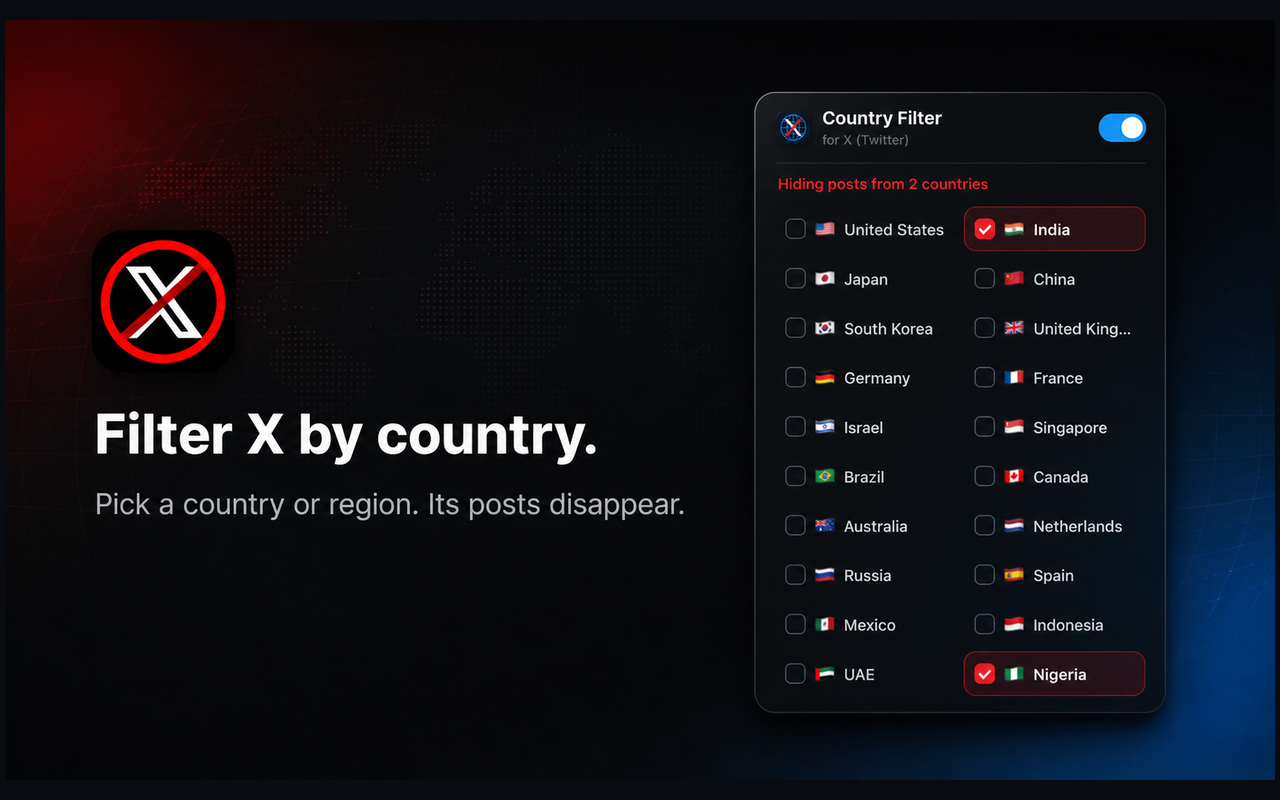
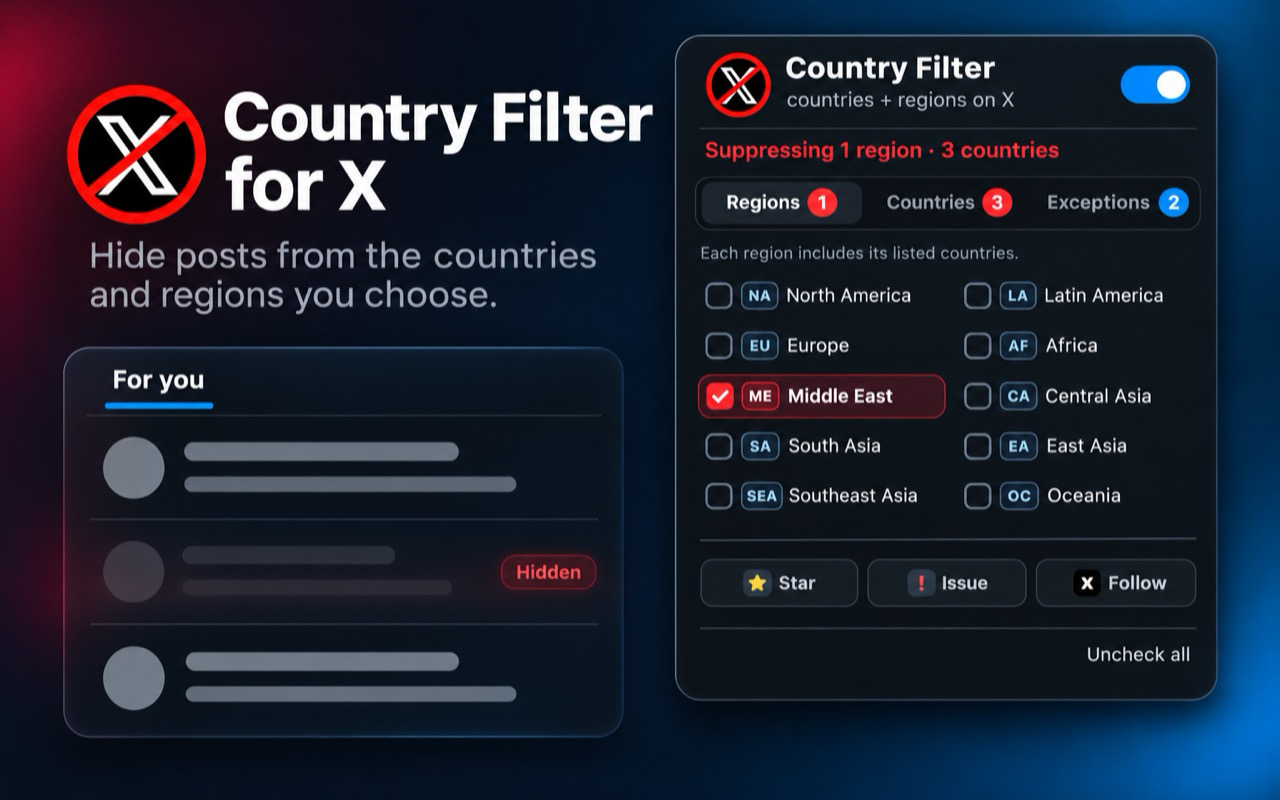
Replace store screenshots with the 1.7 set
Five new 1280x800 screenshots (hero, choices, exceptions, languages,
privacy) for the README and Chrome Web Store listing.

diff --git a/STORE_LISTING.md b/STORE_LISTING.md
@@ -109,9 +109,11 @@ English
 | Asset | File | Notes |
 |---|---|---|
 | Store icon | `store-assets/store-icon-128.png` | 128×128 prohibition-mark logo with transparent outer corners |
-| Screenshot 1 (hero, upload first) | `store-assets/screenshot-1-hero-1280x800.png` | new logo, country/region tagline, and popup preview |
-| Screenshot 2 (features) | `store-assets/screenshot-2-features-1280x800.png` | 249 countries, 10 regions, search, and username exceptions |
-| Screenshot 3 (privacy) | `store-assets/screenshot-3-privacy-1280x800.png` | privacy promises plus X and X Pro support |
+| Screenshot 1 (hero, upload first) | `store-assets/screenshot-1-hero-1280x800.png` | logo, tagline, For You feed with a hidden post, and the Regions popup |
+| Screenshot 2 (choices) | `store-assets/screenshot-2-choices-1280x800.png` | 249 countries, 10 regions, Regions and Countries search popups |
+| Screenshot 3 (exceptions) | `store-assets/screenshot-3-exceptions-1280x800.png` | signed-in account, followed accounts, and username exceptions |
+| Screenshot 4 (languages) | `store-assets/screenshot-4-languages-1280x800.png` | works in every X display language |
+| Screenshot 5 (privacy) | `store-assets/screenshot-5-privacy-1280x800.png` | no developer servers, no tracking, x.com and X Pro |
 | Small promo tile (optional) | — not made yet | 440×280 PNG, improves discovery placement |
 
 ### Global assets
@@ -202,7 +204,7 @@ https://github.com/apoorvdarshan/x-country-filter/blob/master/PRIVACY.md
 - [ ] Zip uploaded (Package tab shows title + summary from manifest)
 - [ ] Description, category, language filled
 - [ ] Store icon uploaded (128×128)
-- [ ] All three 1280×800 screenshots uploaded, hero first
+- [ ] All five 1280×800 screenshots uploaded, hero first
 - [ ] Privacy tab: purpose, 2 justifications, Website content disclosure, policy URL
 - [ ] Distribution: public, all regions
 - [ ] "Submit for review" (first review typically takes a few days)

diff --git a/README.md b/README.md
@@ -39,16 +39,24 @@ Support the project: [star it on GitHub](https://github.com/apoorvdarshan/x-coun
 ## See it in action
 
 <p align="center">
-  <img src="store-assets/screenshot-1-hero-1280x800.png" width="100%" alt="Country Filter for X hero showing country and region filtering">
+  <img src="store-assets/screenshot-1-hero-1280x800.png" width="100%" alt="Country Filter for X hides posts from chosen countries and regions in the For You feed">
 </p>
 
 <table>
   <tr>
     <td width="50%">
-      <img src="store-assets/screenshot-2-features-1280x800.png" width="100%" alt="Country Filter for X supports 249 countries, 10 regions, search, and username exceptions">
+      <img src="store-assets/screenshot-2-choices-1280x800.png" width="100%" alt="249 countries and 10 regions, with country search">
     </td>
     <td width="50%">
-      <img src="store-assets/screenshot-3-privacy-1280x800.png" width="100%" alt="Country Filter for X privacy features and X Pro support">
+      <img src="store-assets/screenshot-3-exceptions-1280x800.png" width="100%" alt="Your posts, mentions, followed accounts and saved usernames always stay visible">
+    </td>
+  </tr>
+  <tr>
+    <td width="50%">
+      <img src="store-assets/screenshot-4-languages-1280x800.png" width="100%" alt="Works in every X display language">
+    </td>
+    <td width="50%">
+      <img src="store-assets/screenshot-5-privacy-1280x800.png" width="100%" alt="Private by design: no developer servers, no tracking, runs on x.com and X Pro">
     </td>
   </tr>
 </table>
